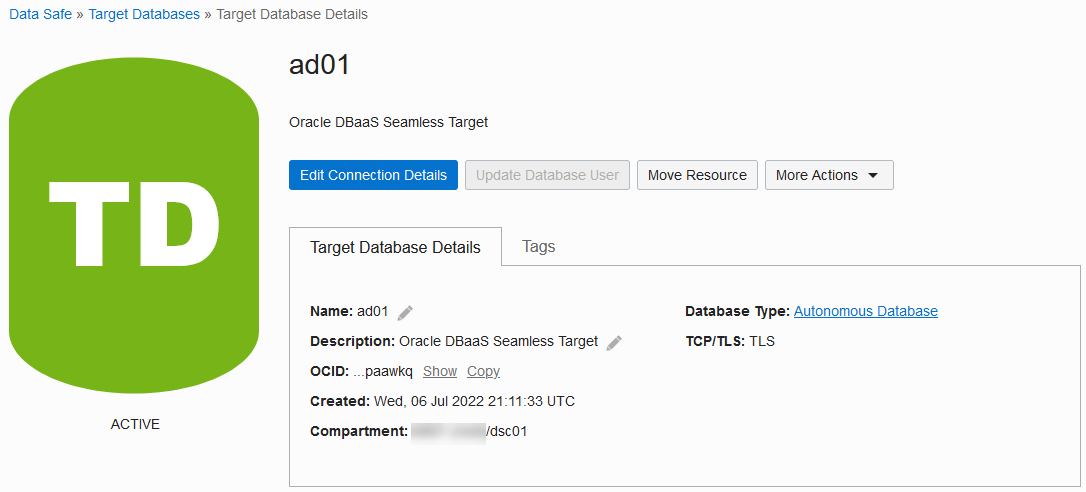
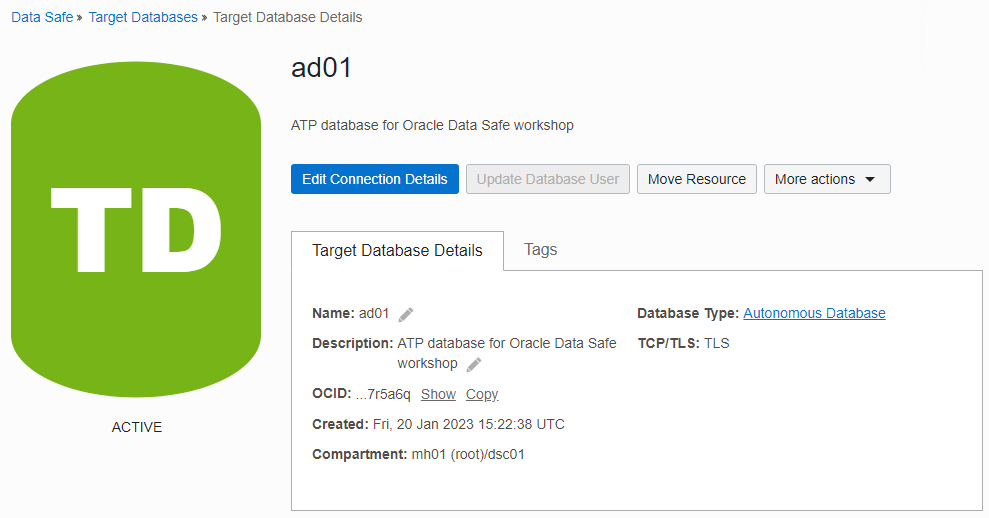
fixes based on Dev feedback

diff --git a/data-safe/register-autonomous-database/register-autonomous-database.md b/data-safe/register-autonomous-database/register-autonomous-database.md
@@ -30,49 +30,61 @@ This lab assumes you have:
 
 ## Task 1: Register your database with Oracle Data Safe
 
-If you plan to use a database other than an ATP database for this workshop, please follow the registration instructions specific for your database type in the _Administering Oracle Data Safe_ guide. See the **Learn More** section at the bottom of this page.
+Begin by reviewing your registration options. Oracle provides two ways to register an Autonomous Database on Shared infrastructure with secure access from everywhere:
+- First option (fastest): Use the **Register** feature on the **Autonomous Database Details** page.
+- Second option: Use the Autonomous Databases wizard on the **Overview** page for the Oracle Data Safe service.
+For this lab, use the second option to register your database so that you can view registration options that aren't available with the first option.
+
+If you plan to register a database other than an ATP database for this workshop, please follow the registration instructions specific for your database type in the _Administering Oracle Data Safe_ guide. See the **Learn More** section at the bottom of this page.
 
 1. Return to the **Autonomous Database | Oracle Cloud Infrastructure** browser tab. You last left off on the **Autonomous Database Details** page.
 
     If you navigated away from this page: From the navigation menu, select **Oracle Database**, and then **Autonomous Transaction Processing**. Select your compartment (if needed), and then click the name of your database.
 
-2. Scroll down the page, and then under **Data Safe**, click **Register**.
+2. Scroll down the page, and then under **Data Safe**, notice that there is a **Register** option. This option provides a one-click way to register an Autonomous Database on Shared infrastructure with secure access from everywhere. Oracle Data Safe uses preset defaults during the registration. However, don't click the link, and instead, lets use the wizard.
 
     ![Register option for your database](images/register-database.png "Register option for your database")
 
-3. In the **Register Database with Data Safe** dialog box, click **Confirm**.
+3. From the navigation menu, select **Oracle Database**, and then **Data Safe**. The **Overview** page is displayed. Notice the following wizards available for registering databases:
 
-    ![Register Database with Data Safe confirm dialog box](images/confirm-registration.png "Register Database with Data Safe confirm dialog box")
+    - Autonomous Databases
+    - Oracle Cloud Databases
+    - Oracle On-Premises Databases
+    - Oracle Databases on Compute
+    - Oracle Cloud@Customer Databases
 
+    ![Overview page for Oracle Data Safe](images/overview-page.png "Overview page for Oracle Data Safe")
 
-4. Wait for the registration process to finish and for the status to change to **Registered**.
+4. In the **Autonomous Databases** section, click **Start Wizard**. The first page in the wizard, **Select Database**, is displayed.
 
-    ![Status reads registered](images/status-registered.png "Status reads registered" )
+5. On the **Select Database** page, if needed, click **Change Compartment** and select the compartment that contains your database. Select your database. (Optional) Enter a display name for your database. This name will be displayed in all the Oracle Data Safe reports. (Optional) Select the compartment to which you want to register your database. Usually, you select the same compartment as your database. (Optional) Enter a description for your target database. Notice the message at the bottom of the page: **The selected database is configured to be securely accessible from everywhere. Steps 2 ('Connectivity Option) and 3 ('Add Security Rule') are not necessary and will be skipped.** If your database had a private IP address, you could configure an Oracle Data Safe private endpoint and security rules in steps 2 and 3. Click **Next**.
 
+    ![Autonomous Database registration wizard - Select Database page](images/ADB-wizard-select-database.png "Autonomous Database registration wizard - Select Database page")
     
+6. On the **Review and Submit** page, review the information. To make a change, you can return to the **Select Database** page. If everything is correct, click **Register**.
 
-## Task 2: Access Oracle Data Safe and view your list of registered target databases
+    ![Autonomous Database registration wizard - Review and Submit page](images/ADB-wizard-review-submit.png "Autonomous Database registration wizard - Review and Submit page")
 
-1. From the navigation menu, select **Oracle Database**, and then **Data Safe**.
+7. Notice that the **Registration Progress** page is displayed briefly, and then the **Target Database Details** page is displayed.
 
-    The **Overview** page for the Oracle Data Safe service is displayed. On this page, you can access Security Center, register target databases, and find links to useful information.
-
-2. On the left, click **Target Databases**.
-
-3. From the **Compartment** drop-down list under **List Scope**, select your compartment. Optionally, deselect **Include child compartments**. Your registered target database is listed on the right.
-
-    - A target database with an **ACTIVE** status means that it is currently registered with Oracle Data Safe.
-    - A target database with a **DELETED** status means that it is no longer registered with Oracle Data Safe. The listing is removed after 45 days.
-
-    ![Target Databases page in OCI](images/target-databases-page-oci.png "Target Databases page in OCI")
-
-4. Click the name of your target database to view its registration details. The **Target Database Details** page is displayed.
-
+    - When your target database is fully registered, the status is set to **ACTIVE**.
     - You can view/edit the target database name and description.
     - You can view the Oracle Cloud Identifier (OCID), when the target database was registered, the compartment name to where the target database was registered, the database type (Autonomous Database), and the connection protocol (TLS). The information varies depending on the target database type.
     - You have options to edit connection details (change the connection protocol), move the target database registration to another compartment, deregister the target database, and add tags.
 
     ![Target Database Details page](images/target-database-details-page.png "Target Database Details page")
+    
+
+## Task 2: Access Oracle Data Safe and view your list of registered target databases
+
+1. In the breadcrumb at the top of the page, click **Target Databases**.
+
+2. From the **Compartment** drop-down list under **List Scope**, select your compartment. Optionally, deselect **Include child compartments**. Your registered target database is listed on the right.
+
+    - A target database with an **ACTIVE** status means that it is currently registered with Oracle Data Safe.
+    - A target database with a **DELETED** status means that it is no longer registered with Oracle Data Safe. The listing is removed after 45 days.
+
+    ![Target Databases page in OCI](images/target-databases-page-oci.png "Target Databases page in OCI")
 
 
 ## Task 3: Explore Security Center
@@ -98,4 +110,4 @@ If you plan to use a database other than an ATP database for this workshop, plea
 ## Acknowledgements
 
 - **Author** - Jody Glover, Consulting User Assistance Developer, Database Development
-- **Last Updated By/Date** - Jody Glover, January 13, 2023
+- **Last Updated By/Date** - Jody Glover, January 20, 2023
